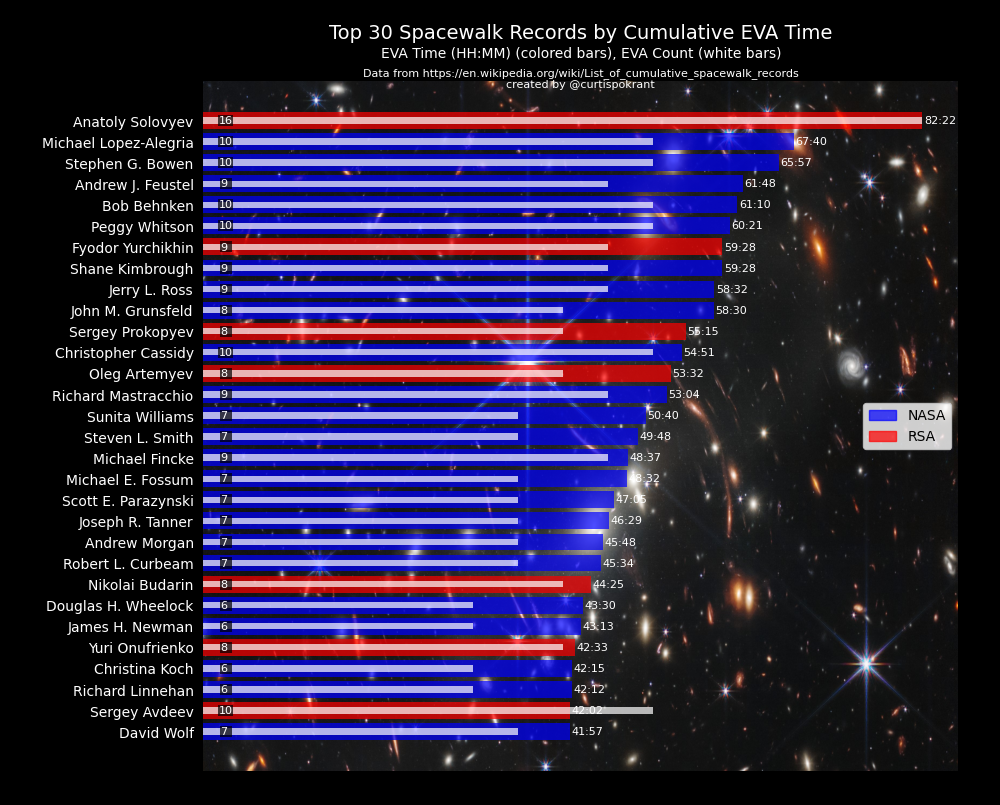
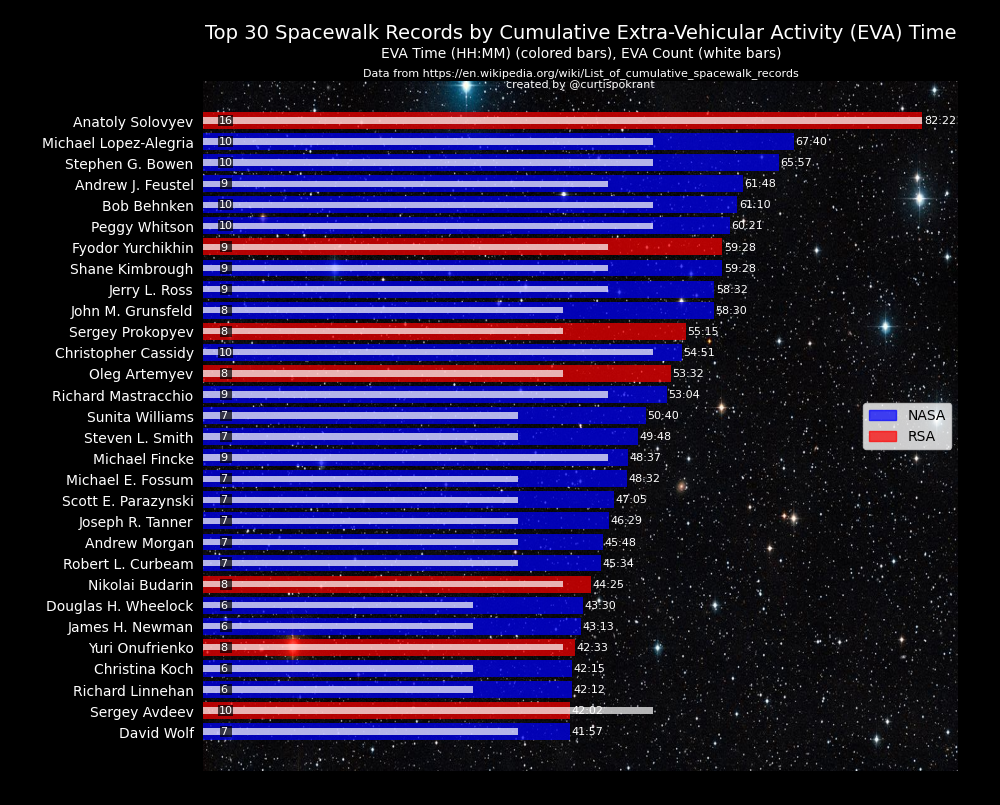
change image, improve title

diff --git a/top20_eva_viz.py b/top20_eva_viz.py
@@ -89,7 +89,7 @@ ax1.tick_params(left=True, labelleft=True)  # Show y-axis ticks and labels
 ax1.tick_params(axis='y', labelcolor='white')
 
 # Load an image
-image = Image.open('jwst_background.jpg')
+image = Image.open('star_background.jpg')
 image = np.array(image)
 # Get the current limits of the plot
 x_min, x_max = ax1.get_xlim()
@@ -98,7 +98,7 @@ y_min, y_max = ax1.get_ylim()
 ax1.imshow(image, aspect='auto', extent=[x_min, x_max, y_min, y_max], zorder=-1)
 
 # Main title
-plt.text(0.5, 1.03, "Top 30 Spacewalk Records by Cumulative EVA Time\n", horizontalalignment='center', fontsize=14, transform=ax1.transAxes, color='white')
+plt.text(0.5, 1.03, "Top 30 Spacewalk Records by Cumulative Extra-Vehicular Activity (EVA) Time\n", horizontalalignment='center', fontsize=14, transform=ax1.transAxes, color='white')
 # Subtitle
 plt.text(0.5, 1.01, "EVA Time (HH:MM) (colored bars), EVA Count (white bars)\n", horizontalalignment='center', fontsize=10, transform=ax1.transAxes, color='white')
 # Source
